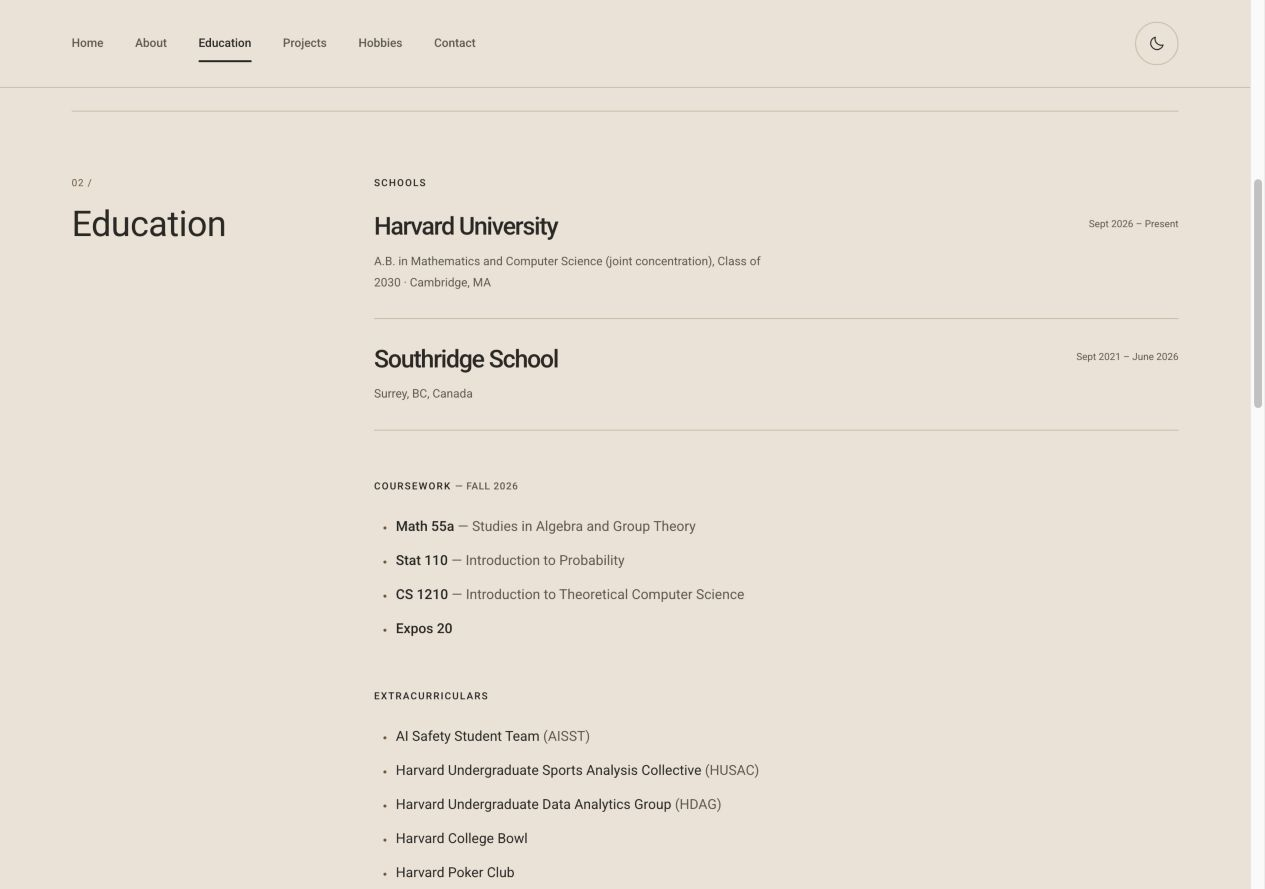
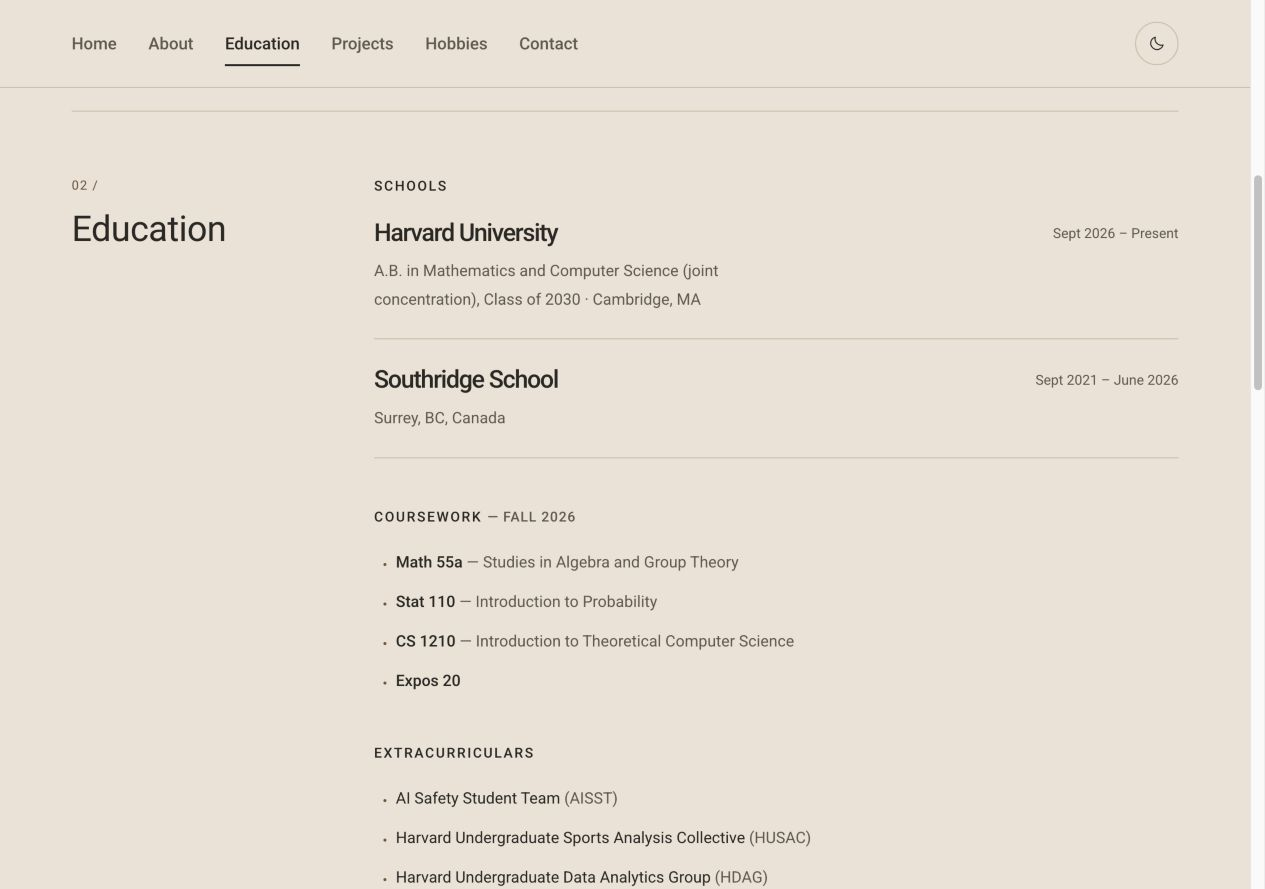
Increase navigation, Harvard label, and reading text for legibility

diff --git a/css/style.css b/css/style.css
@@ -13,7 +13,7 @@ html[data-theme="dark"] {
 }
 * { box-sizing: border-box; }
 html { scroll-behavior: smooth; scroll-padding-top: calc(var(--nav-height) + 24px); }
-body { margin: 0; background: var(--bg); color: var(--text); font-family: "Roboto", "Helvetica Neue", Arial, sans-serif; font-size: 15px; line-height: 1.65; -webkit-font-smoothing: antialiased; }
+body { margin: 0; background: var(--bg); color: var(--text); font-family: "Roboto", "Helvetica Neue", Arial, sans-serif; font-size: 18px; line-height: 1.65; -webkit-font-smoothing: antialiased; }
 ::selection { background: var(--text); color: var(--bg); }
 a { color: inherit; text-decoration: none; }
 button { font: inherit; cursor: pointer; }
@@ -27,7 +27,7 @@ ul { list-style: none; margin: 0; padding: 0; }
 .site-header { position: sticky; top: 0; z-index: 20; background: var(--bg); border-bottom: 1px solid var(--border); }
 .nav-inner { height: var(--nav-height); display: flex; align-items: center; justify-content: space-between; gap: 32px; }
 .nav-links { display: flex; gap: 32px; }
-.nav-link { display: block; position: relative; padding-block: 15px; color: var(--text-muted); font-size: 12px; font-weight: 500; transition: color .2s; }
+.nav-link { display: block; position: relative; padding-block: 15px; color: var(--text-muted); font-size: 17px; font-weight: 500; transition: color .2s; }
 .nav-link::after { content: ""; position: absolute; height: 2px; background: var(--text); bottom: 6px; left: 0; right: 0; transform: scaleX(0); transform-origin: left; transition: transform .2s; }
 .nav-link:hover, .nav-link.active { color: var(--text); }
 .nav-link.active::after { transform: scaleX(1); }
@@ -38,13 +38,13 @@ ul { list-style: none; margin: 0; padding: 0; }
 html[data-theme="dark"] .sun-icon { display: block; }
 html[data-theme="dark"] .moon-icon { display: none; }
 .hero { padding-top: 64px; padding-bottom: 28px; }
-.eyebrow { display: flex; align-items: center; gap: 10px; color: var(--accent); font-size: 11px; font-weight: 500; letter-spacing: .1em; text-transform: uppercase; }
+.eyebrow { display: flex; align-items: center; gap: 10px; color: var(--accent); font-size: 20px; font-weight: 400; letter-spacing: .04em; text-transform: uppercase; }
 .status-dot { width: 5px; height: 5px; background: var(--accent); border-radius: 50%; }
 h1 { margin: 20px 0 26px -2px; font-family: "Roboto", "Helvetica Neue", Arial, sans-serif; font-size: clamp(80px, 9vw, 116px); line-height: 1.05; font-weight: 400; letter-spacing: -.025em; white-space: nowrap; }
 .name-period { color: var(--accent); }
-.tagline { max-width: 350px; font-size: 16px; color: var(--text-muted); line-height: 1.8; }
-.cta-row { display: flex; align-items: center; gap: 12px; margin-top: 34px; }
-.button { display: flex; align-items: center; justify-content: space-between; gap: 24px; min-height: 48px; padding: 12px 20px; font-size: 11px; font-weight: 500; transition: background .2s, color .2s, border-color .2s; }
+.tagline { max-width: 440px; font-size: 18px; color: var(--text-muted); line-height: 1.8; }
+.cta-row { display: flex; flex-wrap: wrap; align-items: center; gap: 12px; margin-top: 34px; }
+.button { display: flex; align-items: center; justify-content: space-between; gap: 24px; min-height: 48px; padding: 12px 20px; font-size: 15px; font-weight: 500; transition: background .2s, color .2s, border-color .2s; }
 .button span { font-size: 17px; line-height: 1; }
 .primary { background: var(--text); color: var(--bg); border: 1px solid var(--text); }
 .primary:hover { background: var(--accent); border-color: var(--accent); }
@@ -56,33 +56,33 @@ h1 { margin: 20px 0 26px -2px; font-family: "Roboto", "Helvetica Neue", Arial, s
 .swatches i:nth-child(2) { background: var(--sw-2); }.swatches i:nth-child(3) { background: var(--sw-3); }.swatches i:nth-child(4) { background: var(--sw-4); }.swatches i:nth-child(5) { background: var(--sw-5); }
 .section { display: grid; grid-template-columns: 250px minmax(0, 1fr); gap: 56px; border-top: 1px solid var(--border); padding: 64px 0; }
 .section-head { align-self: start; display: flex; flex-direction: column; align-items: flex-start; gap: 12px; }
-.section-number { color: var(--accent); font-size: 10px; letter-spacing: .08em; font-variant-numeric: tabular-nums; }
+.section-number { color: var(--accent); font-size: 13px; letter-spacing: .08em; font-variant-numeric: tabular-nums; }
 h2 { font-family: "Roboto", "Helvetica Neue", Arial, sans-serif; font-size: 36px; font-weight: 400; letter-spacing: -.01em; line-height: 1.2; }
 .empty-section { min-height: 208px; }
 .section-body { min-width: 0; }
-.prose p { max-width: 640px; margin-bottom: 20px; color: var(--text-muted); font-size: 16px; }
+.prose p { max-width: 640px; margin-bottom: 20px; color: var(--text-muted); font-size: 18px; }
 .education-section { padding-bottom: 76px; }
 .education-group + .education-group { margin-top: 48px; }
-.subhead { font-size: 10px; font-weight: 500; letter-spacing: .12em; text-transform: uppercase; margin-bottom: 20px; }
+.subhead { font-size: 14px; font-weight: 500; letter-spacing: .12em; text-transform: uppercase; margin-bottom: 20px; }
 .subhead span { color: var(--text-muted); letter-spacing: .06em; }
 .school { display: grid; grid-template-columns: minmax(0, 1fr) auto; gap: 24px; padding: 25px 0; border-bottom: 1px solid var(--border); }
 .school:first-of-type { padding-top: 0; }
 .school h4 { font-size: 25px; font-weight: 500; letter-spacing: -.045em; margin-bottom: 9px; line-height: 1.25; }
-.school p { color: var(--text-muted); font-size: 12px; max-width: 420px; line-height: 1.8; }
-.school .date { font-size: 10px; white-space: nowrap; padding-top: 4px; }
+.school p { color: var(--text-muted); font-size: 16px; max-width: 420px; line-height: 1.8; }
+.school .date { font-size: 14px; white-space: nowrap; padding-top: 4px; }
 .course-description { color: var(--text-muted); }
 .course-list, .club-list { list-style: disc; padding-left: 19px; }
-.course-list li, .club-list li { padding-left: 3px; margin-bottom: 10px; font-size: 14px; line-height: 1.75; }
+.course-list li, .club-list li { padding-left: 3px; margin-bottom: 12px; font-size: 16px; line-height: 1.75; }
 .course-list li::marker, .club-list li::marker { color: var(--accent); font-size: 10px; }
 .course-list strong { font-weight: 500; }
 .club-acronym { color: var(--text-muted); }
 .tags { display: flex; flex-wrap: wrap; gap: 8px; }
-.tags li { padding: 7px 12px; background: var(--surface-2); color: var(--text); font-size: 10px; line-height: 1.5; }
+.tags li { padding: 7px 12px; background: var(--surface-2); color: var(--text); font-size: 14px; line-height: 1.5; }
 .award-list { border-top: 1px solid var(--border); }
 .award-list li { display: grid; grid-template-columns: minmax(0, 1fr) auto; align-items: baseline; gap: 28px; border-bottom: 1px solid var(--border); padding: 20px 0; }
-.award-list h4 { font-size: 13px; line-height: 1.7; font-weight: 500; }
-.award-list p { font-size: 11px; color: var(--text-muted); margin-top: 3px; }
-.year { font-size: 10px; color: var(--accent); font-variant-numeric: tabular-nums; }
+.award-list h4 { font-size: 16px; line-height: 1.7; font-weight: 500; }
+.award-list p { font-size: 15px; color: var(--text-muted); margin-top: 3px; }
+.year { font-size: 14px; color: var(--accent); font-variant-numeric: tabular-nums; }
 .project-grid { display: grid; grid-template-columns: repeat(2, minmax(0, 1fr)); gap: 20px; }
 .project-card { padding: 28px; background: var(--surface); border: 1px solid var(--border); }
 .project-card h3 { font-weight: 500; font-size: 20px; margin-bottom: 12px; }
@@ -92,12 +92,12 @@ h2 { font-family: "Roboto", "Helvetica Neue", Arial, sans-serif; font-size: 36px
 .contact-section { padding-bottom: 88px; }
 .contact-list { margin-top: -8px; }
 .contact-list li { border-bottom: 1px solid var(--border); }
-.contact-list a, .contact-row { display: grid; grid-template-columns: 90px minmax(0, 1fr) 20px; align-items: center; gap: 12px; min-height: 70px; padding: 12px 0; transition: background .2s; }
-.contact-label { font-size: 10px; color: var(--text-muted); }
-.contact-value { font-size: 17px; letter-spacing: -.03em; overflow-wrap: anywhere; }
+.contact-list a, .contact-row { display: grid; grid-template-columns: 105px minmax(0, 1fr) 20px; align-items: center; gap: 12px; min-height: 70px; padding: 12px 0; transition: background .2s; }
+.contact-label { font-size: 14px; color: var(--text-muted); }
+.contact-value { font-size: 18px; letter-spacing: -.03em; overflow-wrap: anywhere; }
 .contact-arrow { font-size: 21px; transition: transform .2s; }
 .contact-list a:hover .contact-value { color: var(--accent); }.contact-list a:hover .contact-arrow { transform: translate(3px, -3px); }
-.site-footer { border-top: 1px solid var(--border); display: flex; align-items: center; gap: 32px; min-height: 104px; color: var(--text-muted); font-size: 10px; }
+.site-footer { border-top: 1px solid var(--border); display: flex; align-items: center; gap: 32px; min-height: 104px; color: var(--text-muted); font-size: 13px; }
 .site-footer p:first-child { margin-right: auto; }.back-to-top { color: var(--text); display: grid; place-items: center; width: 44px; height: 44px; font-size: 20px; }
 @media (min-width: 1600px) { .hero { padding-top: 76px; } }
 @media (max-width: 1000px) {
@@ -107,23 +107,23 @@ h2 { font-family: "Roboto", "Helvetica Neue", Arial, sans-serif; font-size: 36px
   h2 { font-size: 34px; }.school { grid-template-columns: 1fr; gap: 6px; }.school .date { padding-top: 0; }.button { padding-inline: 14px; gap: 16px; }
 }
 @media (max-width: 680px) {
-  :root { --nav-height: 76px; }.wrap { width: calc(100% - 40px); }
+  :root { --nav-height: 120px; }.wrap { width: calc(100% - 40px); }
   .nav-inner { gap: 12px; height: var(--nav-height); }
-  .theme-toggle { width: 34px; height: 34px; flex: none; }
-  .nav-inner nav { flex: 1; min-width: 0; }.nav-links { display: grid; grid-template-columns: repeat(6, 1fr); gap: 0; }
-  .nav-link { text-align: center; font-size: 10px; padding: 19px 0 16px; }.nav-link::after { bottom: 0; left: 8px; right: 8px; }
-  .hero { padding-top: 40px; }.eyebrow { font-size: 9px; }
-  h1 { font-size: clamp(64px, 20vw, 96px); margin: 18px 0 22px -1px; }.tagline { font-size: 14px; max-width: 310px; }
-  .cta-row { margin-top: 25px; gap: 10px; }.button { font-size: 10px; padding-inline: 16px; gap: 20px; }
+  .theme-toggle { width: 44px; height: 44px; flex: none; }
+  .nav-inner nav { flex: 1; min-width: 0; }.nav-links { display: grid; grid-template-columns: repeat(3, 1fr); gap: 0 8px; }
+  .nav-link { text-align: left; font-size: 14px; padding: 10px 0; min-height: 44px; }.nav-link::after { bottom: 4px; left: 0; right: 12px; }
+  .hero { padding-top: 40px; }.eyebrow { font-size: 16px; letter-spacing: .02em; }
+  h1 { font-size: clamp(64px, 20vw, 96px); margin: 18px 0 22px -1px; }.tagline { font-size: 16px; max-width: 390px; }
+  .cta-row { margin-top: 25px; gap: 10px; }.button { font-size: 14px; padding-inline: 14px; gap: 12px; }
   .hero-foot { margin-top: 32px; }
   .section { grid-template-columns: 1fr; padding: 38px 0; gap: 32px; }.section-head { flex-direction: row; align-items: baseline; gap: 18px; }
-  .section-number { font-size: 9px; }h2 { font-size: 30px; }.empty-section { min-height: 152px; gap: 0; }
-  .education-section { padding-bottom: 48px; }.school h4 { font-size: 25px; }.school p { font-size: 12px; }.school .date { margin-top: 5px; font-size: 10px; }
-  .education-group + .education-group { margin-top: 36px; }.course-list li, .club-list li { font-size: 13px; }
-  .award-list h4 { font-size: 12px; }.award-list p { font-size: 11px; }.award-list li { gap: 16px; }.project-grid { grid-template-columns: 1fr; }
+  .section-number { font-size: 13px; }h2 { font-size: 30px; }.empty-section { min-height: 152px; gap: 0; }
+  .education-section { padding-bottom: 48px; }.school h4 { font-size: 25px; }.school p { font-size: 16px; }.school .date { margin-top: 5px; font-size: 14px; }
+  .education-group + .education-group { margin-top: 36px; }.course-list li, .club-list li { font-size: 16px; }
+  .award-list h4 { font-size: 16px; }.award-list p { font-size: 15px; }.award-list li { gap: 16px; }.project-grid { grid-template-columns: 1fr; }
   .contact-section { padding-bottom: 48px; }.contact-list a, .contact-row { grid-template-columns: minmax(0, 1fr) 20px; gap: 2px 12px; padding: 15px 0; }
-  .contact-label { grid-column: 1; font-size: 9px; }.contact-value { grid-column: 1; font-size: 16px; }.contact-arrow { grid-column: 2; grid-row: 1 / 3; }
-  .site-footer { position: relative; flex-direction: column; align-items: flex-start; justify-content: center; gap: 6px; padding: 24px 44px 24px 0; min-height: 100px; font-size: 9px; }
+  .contact-label { grid-column: 1; font-size: 14px; }.contact-value { grid-column: 1; font-size: 17px; }.contact-arrow { grid-column: 2; grid-row: 1 / 3; }
+  .site-footer { position: relative; flex-direction: column; align-items: flex-start; justify-content: center; gap: 6px; padding: 24px 44px 24px 0; min-height: 100px; font-size: 13px; }
   .back-to-top { position: absolute; top: 28px; right: 0; }
 }
 @media (prefers-reduced-motion: reduce) { html { scroll-behavior: auto; }*, *::before, *::after { transition: none !important; animation: none !important; } }

diff --git a/docs/verification.md b/docs/verification.md
@@ -50,3 +50,7 @@ The three abbreviated entries now include their full names, retaining the suppli
 ## Font and contact revision
 
 All typography uses Roboto, retaining the smaller, regular-weight headings. The email is written with `[at]` and `[dot]` as plain selectable text; no mail link or literal email address is embedded in the page HTML. Desktop and phone wrapping and section navigation were checked after this revision.
+
+## Readability revision
+
+Navigation uses 17px text on desktop and 14px text in two rows on phones. The Math + CS label uses 20px on desktop and 16px on phones. Main reading text is 16–18px, award details are 15px, dates and contact labels are 14px, and footer text is 13px. Heading size and regular weight remain restrained. Both themes, phone wrapping, section navigation, and header anchor offsets were checked after the size changes.
